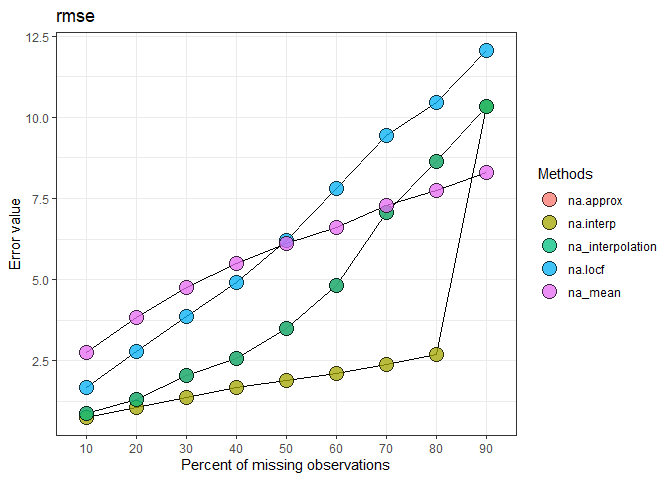
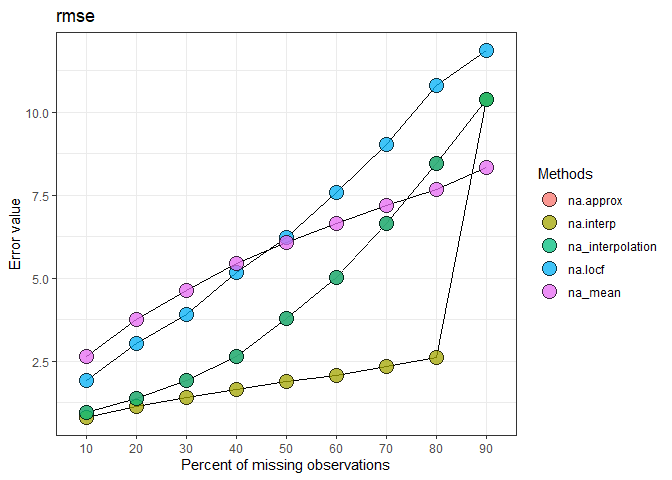
removed travis, appveyor, added gh action cmd build

diff --git a/README.md b/README.md
@@ -1,14 +1,9 @@
 
 ## imputeTestbench
 
-#### *Neeraj Bokde, <neerajdhanraj@gmail.com>, Marcus W. Beck, <beck.marcus@epa.gov>*
+#### *Neeraj Bokde, <neerajdhanraj@gmail.com>, Marcus W. Beck, <mbafs2012@gmail.com>*
 
-[![Travis-CI Build
-Status](https://travis-ci.org/fawda123/imputeTestbench.svg?branch=master)](https://travis-ci.org/fawda123/imputeTestbench)
-
-[![AppVeyor Build
-Status](https://ci.appveyor.com/api/projects/status/github/fawda123/imputeTestbench?branch=master&svg=true)](https://ci.appveyor.com/project/fawda123/imputeTestbench)
-
+[![R-CMD-check](https://github.com/fawda123/imputeTestbench/workflows/R-CMD-check/badge.svg)](https://github.com/fawda123/imputeTestbench/actions)
 [![Downloads from the RStudio CRAN
 mirror](http://cranlogs.r-pkg.org/badges/grand-total/imputeTestbench)](https://CRAN.R-project.org/package=imputeTestbench)
 
@@ -53,24 +48,24 @@ a
     ## [1] 10 20 30 40 50 60 70 80 90
     ## 
     ## $na.approx
-    ## [1]  0.8745735  1.3140905  2.0493222  2.5666394  3.4916234  4.8094359
-    ## [7]  7.0808430  8.6298858 10.3312949
+    ## [1]  0.9745496  1.3856628  1.9129615  2.6498481  3.7849822  5.0208590  6.6343677
+    ## [8]  8.4455223 10.3949327
     ## 
     ## $na.interp
-    ## [1]  0.7632089  1.0495005  1.3580821  1.6699538  1.9051306  2.1161712
-    ## [7]  2.3753439  2.7078472 10.3312949
+    ## [1]  0.8221107  1.1478071  1.4159549  1.6452581  1.9016976  2.0818991  2.3455729
+    ## [8]  2.6274192 10.3949327
     ## 
     ## $na_interpolation
-    ## [1]  0.8745735  1.3140905  2.0493222  2.5666394  3.4916234  4.8094359
-    ## [7]  7.0808430  8.6298858 10.3312949
+    ## [1]  0.9745496  1.3856628  1.9129615  2.6498481  3.7849822  5.0208590  6.6343677
+    ## [8]  8.4455223 10.3949327
     ## 
     ## $na.locf
-    ## [1]  1.679724  2.794649  3.861797  4.918532  6.209940  7.794973  9.441852
-    ## [8] 10.466573 12.047612
+    ## [1]  1.932793  3.029201  3.898818  5.166109  6.233874  7.593585  9.028926
+    ## [8] 10.787879 11.841940
     ## 
     ## $na_mean
-    ## [1] 2.751165 3.822438 4.755763 5.485506 6.104211 6.620665 7.277600 7.737999
-    ## [9] 8.305569
+    ## [1] 2.634303 3.763457 4.630139 5.450282 6.089774 6.660770 7.192983 7.660656
+    ## [9] 8.323775
 
 ``` r
 plot_errors(a, plotType = 'line')
